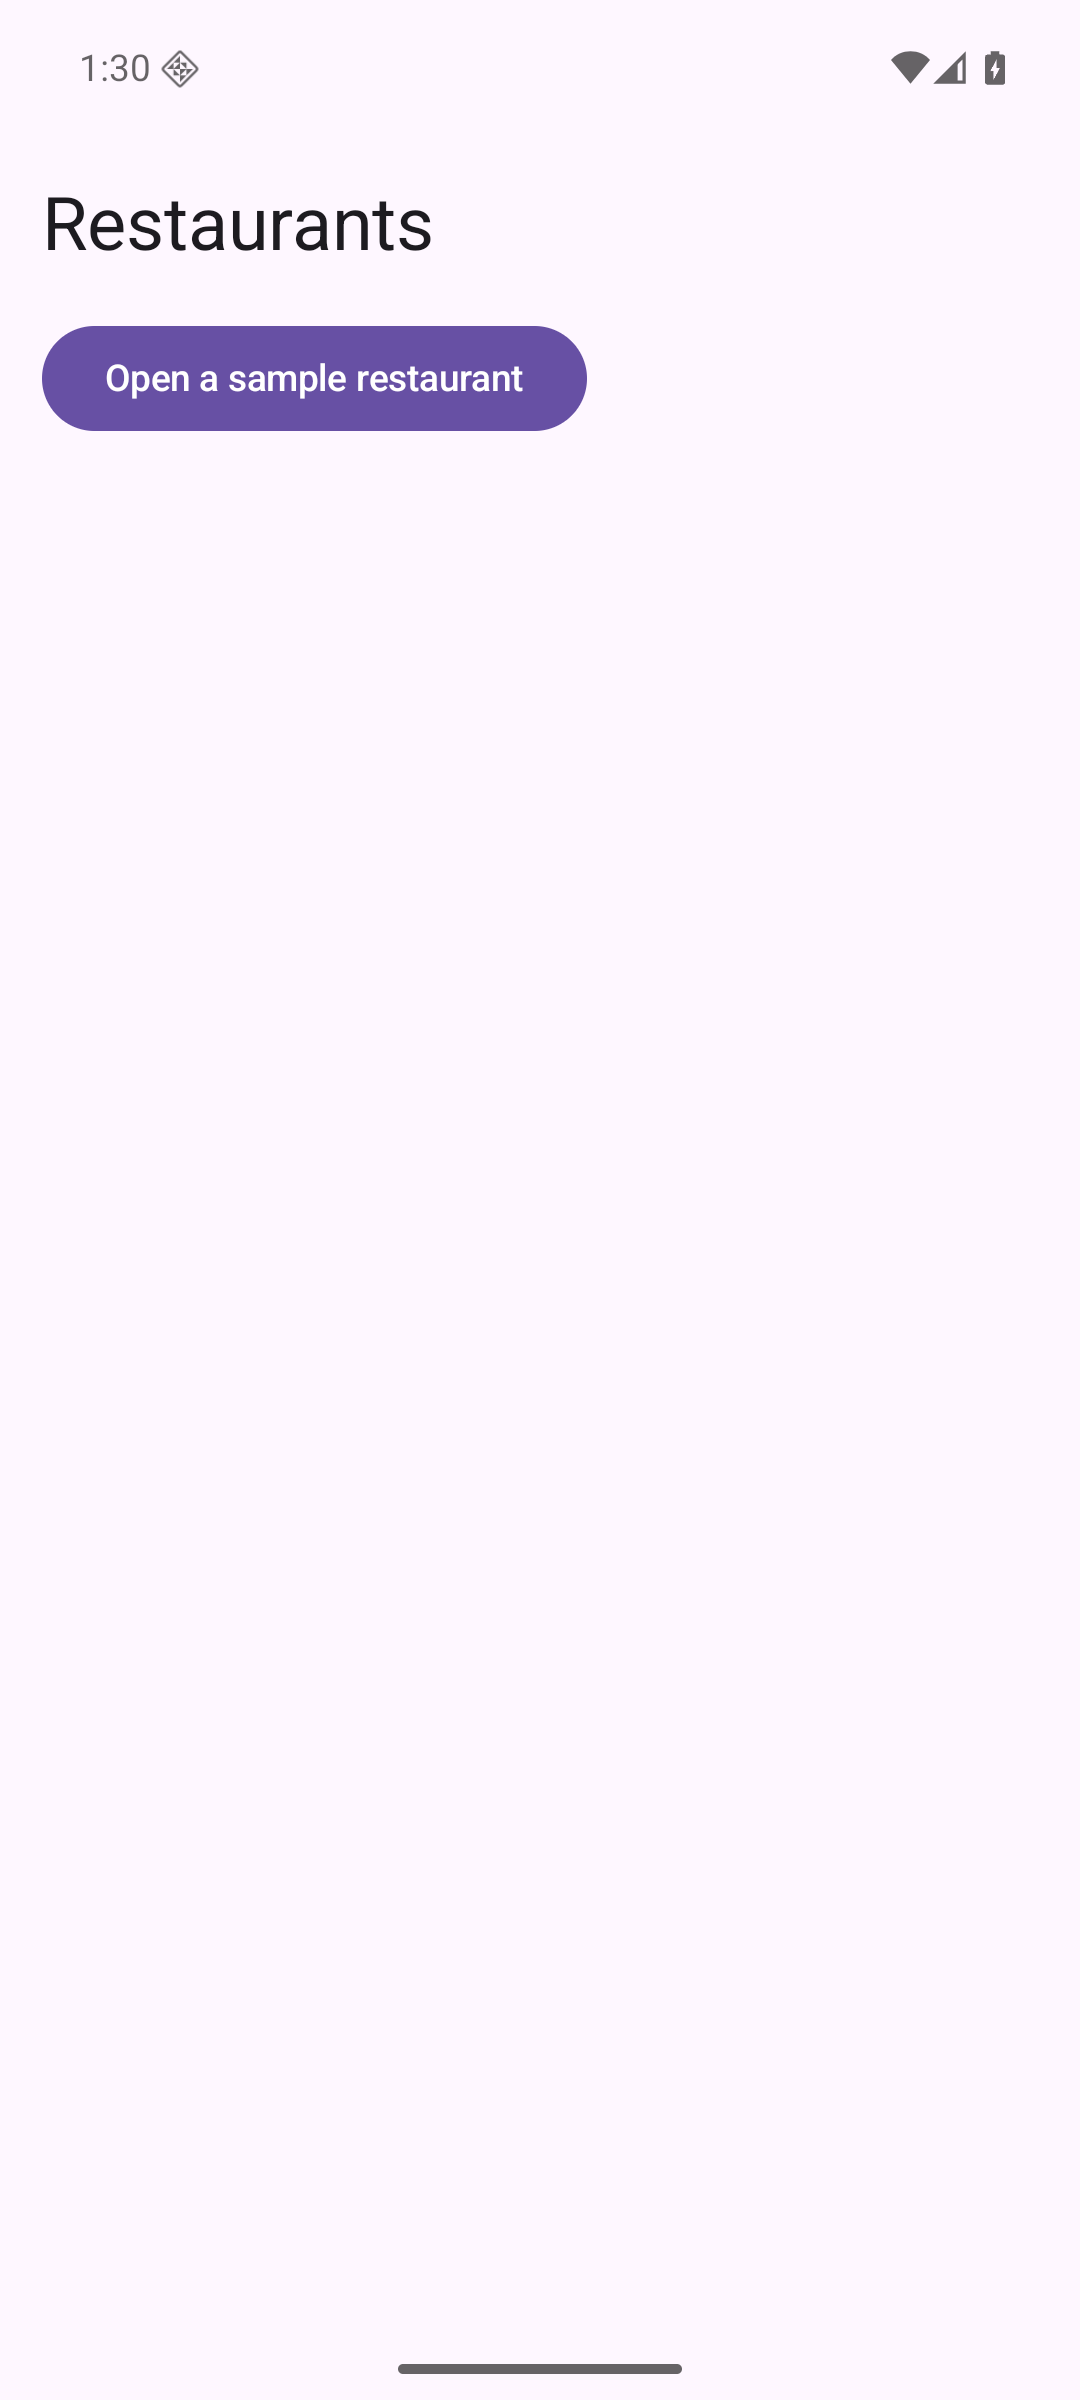
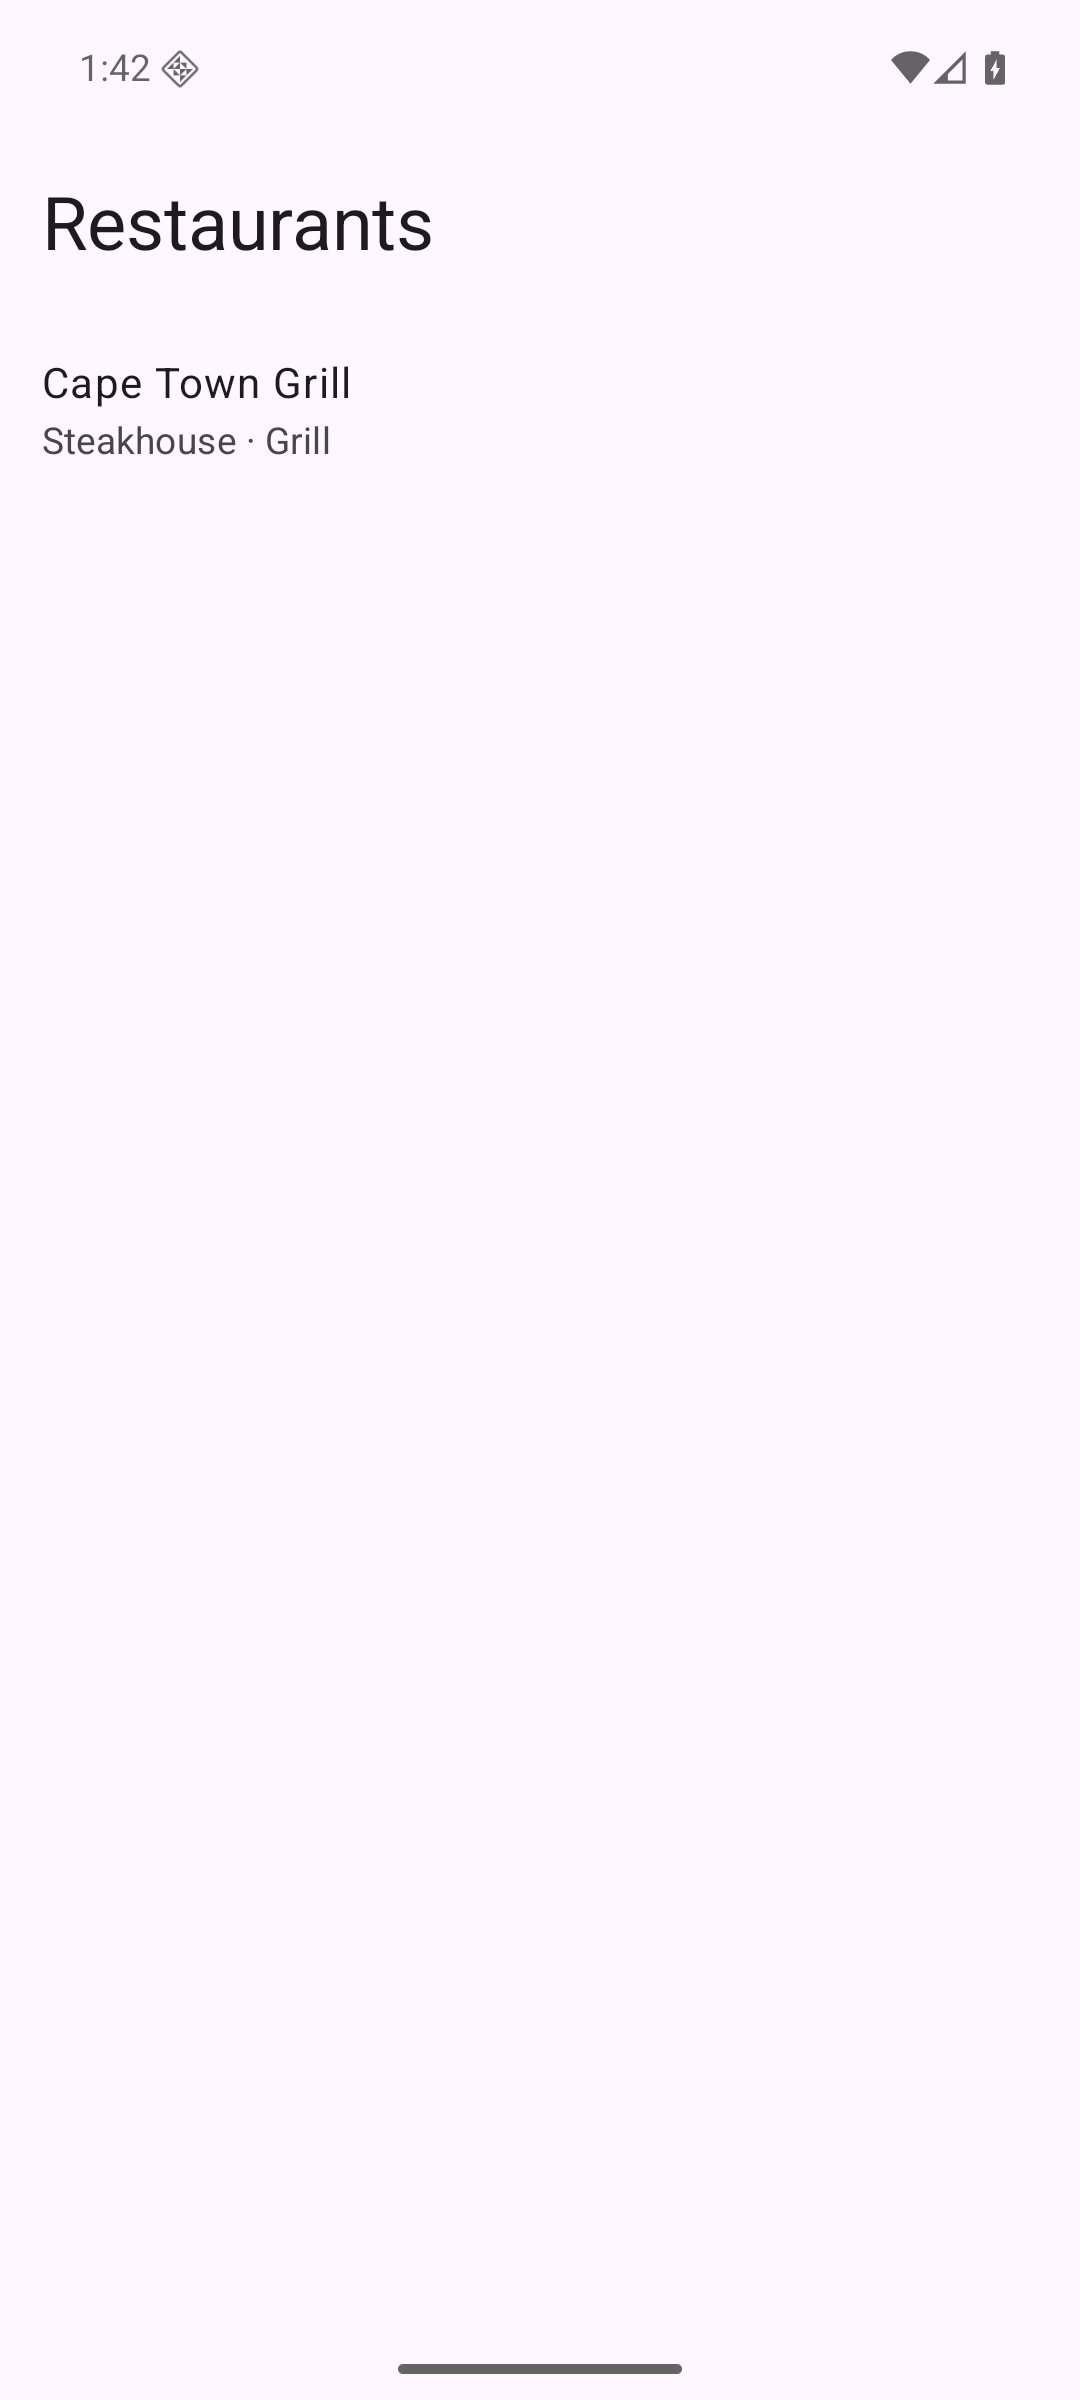
feat(browse): open the sample restaurant by tapping it, not a button
A restaurant app opens a restaurant when you tap it. The placeholder now shows the brief's example restaurant as a list item; milestone 5 replaces it with the real list.

Verified: release APK on the emulator: tapping the row opens Details and Back returns; screenshots re-captured; lint and spotlessCheck pass; no missing keep rules.

Changed region(s): [[0.0306, 0.125, 0.55, 0.1875]]

diff --git a/feature/browse/src/main/kotlin/com/effekt3r/mrd/feature/browse/BrowseScreen.kt b/feature/browse/src/main/kotlin/com/effekt3r/mrd/feature/browse/BrowseScreen.kt
@@ -1,11 +1,11 @@
 package com.effekt3r.mrd.feature.browse
 
-import androidx.compose.foundation.layout.Arrangement
+import androidx.compose.foundation.clickable
 import androidx.compose.foundation.layout.Column
 import androidx.compose.foundation.layout.fillMaxSize
 import androidx.compose.foundation.layout.padding
 import androidx.compose.foundation.layout.safeDrawingPadding
-import androidx.compose.material3.Button
+import androidx.compose.material3.ListItem
 import androidx.compose.material3.MaterialTheme
 import androidx.compose.material3.Text
 import androidx.compose.runtime.Composable
@@ -16,19 +16,22 @@ import androidx.compose.ui.unit.dp
 import androidx.lifecycle.compose.dropUnlessResumed
 
 /**
- * Placeholder for Browse (milestone 1). It proves the navigation wiring and the edge-to-edge insets;
- * milestone 5 replaces it with the restaurant list.
+ * Placeholder for Browse (milestone 1): one sample restaurant that opens Details when tapped, which proves the
+ * navigation wiring and the edge-to-edge insets. Milestone 5 replaces it with the real restaurant list.
  */
 @Composable
 internal fun BrowseScreen(onRestaurantClick: (String) -> Unit, modifier: Modifier = Modifier) {
-    Column(
-        modifier = modifier.fillMaxSize().safeDrawingPadding().padding(16.dp),
-        verticalArrangement = Arrangement.spacedBy(16.dp)
-    ) {
-        Text(text = stringResource(R.string.browse_title), style = MaterialTheme.typography.headlineMedium)
-        Button(onClick = dropUnlessResumed { onRestaurantClick(SAMPLE_RESTAURANT_ID) }) {
-            Text(text = stringResource(R.string.browse_placeholder_open_sample))
-        }
+    Column(modifier = modifier.fillMaxSize().safeDrawingPadding()) {
+        Text(
+            text = stringResource(R.string.browse_title),
+            style = MaterialTheme.typography.headlineMedium,
+            modifier = Modifier.padding(16.dp)
+        )
+        ListItem(
+            headlineContent = { Text(text = stringResource(R.string.browse_sample_restaurant_name)) },
+            supportingContent = { Text(text = stringResource(R.string.browse_sample_restaurant_cuisines)) },
+            modifier = Modifier.clickable(onClick = dropUnlessResumed { onRestaurantClick(SAMPLE_RESTAURANT_ID) })
+        )
     }
 }
 
